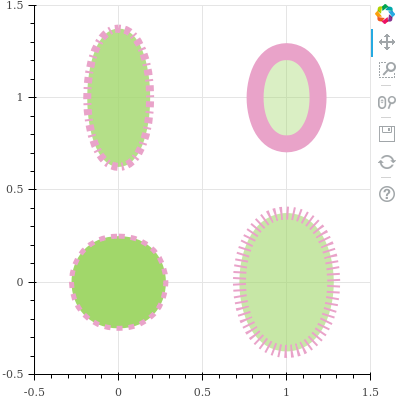
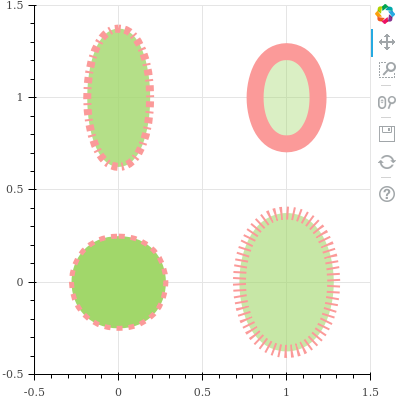
adding glyphs

diff --git a/visualizations/bokeh/figures/oval.html b/visualizations/bokeh/figures/oval.html
@@ -26,15 +26,15 @@
     <body>
         
         <div class="bk-root">
-            <div class="bk-plotdiv" id="62989a92-e396-4f5a-965a-313b84857a18"></div>
+            <div class="bk-plotdiv" id="96c07aaa-b8b9-4380-a575-c02981c646c0"></div>
         </div>
         
         <script type="text/javascript">
             (function() {
           var fn = function() {
             Bokeh.safely(function() {
-              var docs_json = {"1d04ee31-8a85-4418-b7fb-336498532421":{"roots":{"references":[{"attributes":{"fill_alpha":{"value":0.8},"fill_color":{"value":"#a1d76a"},"height":{"units":"data","value":0.75},"line_color":{"value":"#e9a3c9"},"line_dash":[2,4,6,4],"line_width":{"value":8},"width":{"units":"data","value":0.5},"x":{"value":0},"y":{"value":1}},"id":"dadd5312-4910-4e13-9038-2ab658ad33fe","type":"Oval"},{"attributes":{},"id":"24e776b3-d8e7-473a-996a-7b53e8a775b0","type":"LinearScale"},{"attributes":{"fill_alpha":{"value":0.1},"fill_color":{"value":"#1f77b4"},"height":{"units":"data","value":0.75},"line_alpha":{"value":0.1},"line_color":{"value":"#1f77b4"},"line_dash":[2,4],"line_width":{"value":13},"width":{"units":"data","value":0.75},"x":{"value":1},"y":{"value":0}},"id":"e058e57b-f2a9-4df8-af5f-fa073d35b3c4","type":"Oval"},{"attributes":{"below":[{"id":"d87bc479-787b-4223-ba49-768d3d163545","type":"LinearAxis"}],"left":[{"id":"0a48bb47-137e-42e9-ad80-e3044a338332","type":"LinearAxis"}],"plot_height":400,"plot_width":400,"renderers":[{"id":"d87bc479-787b-4223-ba49-768d3d163545","type":"LinearAxis"},{"id":"f17390de-6759-4f5c-bf11-67b1ed06ecbf","type":"Grid"},{"id":"0a48bb47-137e-42e9-ad80-e3044a338332","type":"LinearAxis"},{"id":"6615a2eb-dd79-48c9-ab9f-cc2f9919d4b4","type":"Grid"},{"id":"9e87a8dd-1f8e-4e99-8a12-9ebe5a4704f1","type":"BoxAnnotation"},{"id":"56ebb76b-2836-4bfb-9501-9e6c39e6650c","type":"GlyphRenderer"},{"id":"d07322be-cfb5-42f8-977a-852c487fa246","type":"GlyphRenderer"},{"id":"f21fa992-15e8-4483-bbc6-1a89d8596015","type":"GlyphRenderer"},{"id":"e3928231-d08b-4710-9102-ea923d526dd1","type":"GlyphRenderer"}],"title":{"id":"a908894b-35f0-4e01-a70e-61f84bc4c3d5","type":"Title"},"toolbar":{"id":"2168eee2-3061-4799-adf0-fc2b30e4313d","type":"Toolbar"},"x_range":{"id":"86571c73-4f47-4b6d-85f3-47724ad37367","type":"Range1d"},"x_scale":{"id":"1f7d412c-b5dc-42f1-9451-627bfcfc04df","type":"LinearScale"},"y_range":{"id":"fdf60e62-45b7-475e-aa7b-d891fa0e463c","type":"Range1d"},"y_scale":{"id":"24e776b3-d8e7-473a-996a-7b53e8a775b0","type":"LinearScale"}},"id":"e5f42080-389a-4f6d-b243-21b1b19cb5c6","subtype":"Figure","type":"Plot"},{"attributes":{},"id":"48639cf8-b2d5-410c-bd11-69905173ad43","type":"SaveTool"},{"attributes":{},"id":"07195ee6-4a4f-416e-baf5-a638aae50ede","type":"BasicTickFormatter"},{"attributes":{},"id":"9c3410e4-72c3-4262-a37f-a7e6cd170613","type":"BasicTicker"},{"attributes":{"data_source":{"id":"46220542-4b14-44ad-969f-a1e7d00faab8","type":"ColumnDataSource"},"glyph":{"id":"cc58413f-e6e5-47cc-9de7-b7a2780539a6","type":"Oval"},"hover_glyph":null,"muted_glyph":null,"nonselection_glyph":{"id":"7548c109-bf78-495d-b475-a7baa28d4283","type":"Oval"},"selection_glyph":null,"view":{"id":"ef9cb6ea-433f-4111-bc66-d7a1a931d2cd","type":"CDSView"}},"id":"e3928231-d08b-4710-9102-ea923d526dd1","type":"GlyphRenderer"},{"attributes":{"fill_color":{"value":"#a1d76a"},"height":{"units":"data","value":0.5},"line_color":{"value":"#e9a3c9"},"line_dash":[6],"line_width":{"value":5},"width":{"units":"data","value":0.75},"x":{"value":0},"y":{"value":0}},"id":"f0922449-eca8-477b-8413-4f6d4801c103","type":"Oval"},{"attributes":{},"id":"445d9921-2340-49da-88a9-77863f76f850","type":"BasicTicker"},{"attributes":{},"id":"1f7d412c-b5dc-42f1-9451-627bfcfc04df","type":"LinearScale"},{"attributes":{"bottom_units":"screen","fill_alpha":{"value":0.5},"fill_color":{"value":"lightgrey"},"left_units":"screen","level":"overlay","line_alpha":{"value":1.0},"line_color":{"value":"black"},"line_dash":[4,4],"line_width":{"value":2},"plot":null,"render_mode":"css","right_units":"screen","top_units":"screen"},"id":"9e87a8dd-1f8e-4e99-8a12-9ebe5a4704f1","type":"BoxAnnotation"},{"attributes":{"overlay":{"id":"9e87a8dd-1f8e-4e99-8a12-9ebe5a4704f1","type":"BoxAnnotation"}},"id":"13b1827a-9299-45e8-afac-8b1573bff317","type":"BoxZoomTool"},{"attributes":{"fill_alpha":{"value":0.4},"fill_color":{"value":"#a1d76a"},"height":{"units":"data","value":0.5},"line_color":{"value":"#e9a3c9"},"line_width":{"value":17},"width":{"units":"data","value":0.5},"x":{"value":1},"y":{"value":1}},"id":"cc58413f-e6e5-47cc-9de7-b7a2780539a6","type":"Oval"},{"attributes":{"formatter":{"id":"07195ee6-4a4f-416e-baf5-a638aae50ede","type":"BasicTickFormatter"},"plot":{"id":"e5f42080-389a-4f6d-b243-21b1b19cb5c6","subtype":"Figure","type":"Plot"},"ticker":{"id":"445d9921-2340-49da-88a9-77863f76f850","type":"BasicTicker"}},"id":"d87bc479-787b-4223-ba49-768d3d163545","type":"LinearAxis"},{"attributes":{"data_source":{"id":"b005d9e0-3abe-473c-9297-d92c07b67ae0","type":"ColumnDataSource"},"glyph":{"id":"e2a611fe-79df-43ef-8ba1-57c807c4385b","type":"Oval"},"hover_glyph":null,"muted_glyph":null,"nonselection_glyph":{"id":"e058e57b-f2a9-4df8-af5f-fa073d35b3c4","type":"Oval"},"selection_glyph":null,"view":{"id":"6626e1a3-f8cb-4ba7-927d-9e73b77b4fb3","type":"CDSView"}},"id":"f21fa992-15e8-4483-bbc6-1a89d8596015","type":"GlyphRenderer"},{"attributes":{},"id":"616a46b0-e7be-4404-9f9b-fcfdf334cdbb","type":"ResetTool"},{"attributes":{"callback":null,"data":{}},"id":"1a96e4d3-264b-47fc-ba2f-b7c0ea44291a","type":"ColumnDataSource"},{"attributes":{"plot":{"id":"e5f42080-389a-4f6d-b243-21b1b19cb5c6","subtype":"Figure","type":"Plot"},"ticker":{"id":"445d9921-2340-49da-88a9-77863f76f850","type":"BasicTicker"}},"id":"f17390de-6759-4f5c-bf11-67b1ed06ecbf","type":"Grid"},{"attributes":{"source":{"id":"b005d9e0-3abe-473c-9297-d92c07b67ae0","type":"ColumnDataSource"}},"id":"6626e1a3-f8cb-4ba7-927d-9e73b77b4fb3","type":"CDSView"},{"attributes":{"active_drag":"auto","active_inspect":"auto","active_scroll":"auto","active_tap":"auto","tools":[{"id":"891ee9f4-981b-4661-9c3a-398ac33fec5a","type":"PanTool"},{"id":"1a161d79-d8cf-4324-ad53-dbfd9a3a7566","type":"WheelZoomTool"},{"id":"13b1827a-9299-45e8-afac-8b1573bff317","type":"BoxZoomTool"},{"id":"48639cf8-b2d5-410c-bd11-69905173ad43","type":"SaveTool"},{"id":"616a46b0-e7be-4404-9f9b-fcfdf334cdbb","type":"ResetTool"},{"id":"bc60f331-735c-4943-904c-6a2f869e45b9","type":"HelpTool"}]},"id":"2168eee2-3061-4799-adf0-fc2b30e4313d","type":"Toolbar"},{"attributes":{"fill_alpha":{"value":0.1},"fill_color":{"value":"#1f77b4"},"height":{"units":"data","value":0.5},"line_alpha":{"value":0.1},"line_color":{"value":"#1f77b4"},"line_width":{"value":17},"width":{"units":"data","value":0.5},"x":{"value":1},"y":{"value":1}},"id":"7548c109-bf78-495d-b475-a7baa28d4283","type":"Oval"},{"attributes":{"source":{"id":"46220542-4b14-44ad-969f-a1e7d00faab8","type":"ColumnDataSource"}},"id":"ef9cb6ea-433f-4111-bc66-d7a1a931d2cd","type":"CDSView"},{"attributes":{"source":{"id":"9f571770-ddd6-4b45-a89c-9edef24fb594","type":"ColumnDataSource"}},"id":"59e11450-78c9-4c80-becd-4faa33aa75be","type":"CDSView"},{"attributes":{},"id":"891ee9f4-981b-4661-9c3a-398ac33fec5a","type":"PanTool"},{"attributes":{"formatter":{"id":"9a7c8dd0-ddd2-4768-ae61-2976dde85bf3","type":"BasicTickFormatter"},"plot":{"id":"e5f42080-389a-4f6d-b243-21b1b19cb5c6","subtype":"Figure","type":"Plot"},"ticker":{"id":"9c3410e4-72c3-4262-a37f-a7e6cd170613","type":"BasicTicker"}},"id":"0a48bb47-137e-42e9-ad80-e3044a338332","type":"LinearAxis"},{"attributes":{"bounds":[-1,2],"callback":null,"end":1.5,"start":-0.5},"id":"fdf60e62-45b7-475e-aa7b-d891fa0e463c","type":"Range1d"},{"attributes":{"callback":null,"data":{}},"id":"b005d9e0-3abe-473c-9297-d92c07b67ae0","type":"ColumnDataSource"},{"attributes":{"fill_alpha":{"value":0.6},"fill_color":{"value":"#a1d76a"},"height":{"units":"data","value":0.75},"line_color":{"value":"#e9a3c9"},"line_dash":[2,4],"line_width":{"value":13},"width":{"units":"data","value":0.75},"x":{"value":1},"y":{"value":0}},"id":"e2a611fe-79df-43ef-8ba1-57c807c4385b","type":"Oval"},{"attributes":{"callback":null,"data":{}},"id":"46220542-4b14-44ad-969f-a1e7d00faab8","type":"ColumnDataSource"},{"attributes":{},"id":"1a161d79-d8cf-4324-ad53-dbfd9a3a7566","type":"WheelZoomTool"},{"attributes":{"callback":null,"data":{}},"id":"9f571770-ddd6-4b45-a89c-9edef24fb594","type":"ColumnDataSource"},{"attributes":{"source":{"id":"1a96e4d3-264b-47fc-ba2f-b7c0ea44291a","type":"ColumnDataSource"}},"id":"ee9b2e5e-9807-4bec-96ae-4550e5af5dc9","type":"CDSView"},{"attributes":{"data_source":{"id":"1a96e4d3-264b-47fc-ba2f-b7c0ea44291a","type":"ColumnDataSource"},"glyph":{"id":"dadd5312-4910-4e13-9038-2ab658ad33fe","type":"Oval"},"hover_glyph":null,"muted_glyph":null,"nonselection_glyph":{"id":"34d62bf9-f475-40bc-9ad6-317a2768102a","type":"Oval"},"selection_glyph":null,"view":{"id":"ee9b2e5e-9807-4bec-96ae-4550e5af5dc9","type":"CDSView"}},"id":"d07322be-cfb5-42f8-977a-852c487fa246","type":"GlyphRenderer"},{"attributes":{"plot":null,"text":""},"id":"a908894b-35f0-4e01-a70e-61f84bc4c3d5","type":"Title"},{"attributes":{},"id":"bc60f331-735c-4943-904c-6a2f869e45b9","type":"HelpTool"},{"attributes":{},"id":"9a7c8dd0-ddd2-4768-ae61-2976dde85bf3","type":"BasicTickFormatter"},{"attributes":{"bounds":[-1,2],"callback":null,"end":1.5,"start":-0.5},"id":"86571c73-4f47-4b6d-85f3-47724ad37367","type":"Range1d"},{"attributes":{"dimension":1,"plot":{"id":"e5f42080-389a-4f6d-b243-21b1b19cb5c6","subtype":"Figure","type":"Plot"},"ticker":{"id":"9c3410e4-72c3-4262-a37f-a7e6cd170613","type":"BasicTicker"}},"id":"6615a2eb-dd79-48c9-ab9f-cc2f9919d4b4","type":"Grid"},{"attributes":{"fill_alpha":{"value":0.1},"fill_color":{"value":"#1f77b4"},"height":{"units":"data","value":0.5},"line_alpha":{"value":0.1},"line_color":{"value":"#1f77b4"},"line_dash":[6],"line_width":{"value":5},"width":{"units":"data","value":0.75},"x":{"value":0},"y":{"value":0}},"id":"a7d42404-54c8-486d-9443-663720b7b05a","type":"Oval"},{"attributes":{"fill_alpha":{"value":0.1},"fill_color":{"value":"#1f77b4"},"height":{"units":"data","value":0.75},"line_alpha":{"value":0.1},"line_color":{"value":"#1f77b4"},"line_dash":[2,4,6,4],"line_width":{"value":8},"width":{"units":"data","value":0.5},"x":{"value":0},"y":{"value":1}},"id":"34d62bf9-f475-40bc-9ad6-317a2768102a","type":"Oval"},{"attributes":{"data_source":{"id":"9f571770-ddd6-4b45-a89c-9edef24fb594","type":"ColumnDataSource"},"glyph":{"id":"f0922449-eca8-477b-8413-4f6d4801c103","type":"Oval"},"hover_glyph":null,"muted_glyph":null,"nonselection_glyph":{"id":"a7d42404-54c8-486d-9443-663720b7b05a","type":"Oval"},"selection_glyph":null,"view":{"id":"59e11450-78c9-4c80-becd-4faa33aa75be","type":"CDSView"}},"id":"56ebb76b-2836-4bfb-9501-9e6c39e6650c","type":"GlyphRenderer"}],"root_ids":["e5f42080-389a-4f6d-b243-21b1b19cb5c6"]},"title":"Bokeh Application","version":"0.12.7"}};
-              var render_items = [{"docid":"1d04ee31-8a85-4418-b7fb-336498532421","elementid":"62989a92-e396-4f5a-965a-313b84857a18","modelid":"e5f42080-389a-4f6d-b243-21b1b19cb5c6"}];
+              var docs_json = {"497fbc84-c441-4f58-877c-dbebb9c97014":{"roots":{"references":[{"attributes":{"plot":null,"text":""},"id":"e1f8550b-b0ac-49b1-b1bf-918bed273779","type":"Title"},{"attributes":{"callback":null,"data":{}},"id":"14820b54-dfcb-4a3a-a3a5-3e90a92fce48","type":"ColumnDataSource"},{"attributes":{"data_source":{"id":"14820b54-dfcb-4a3a-a3a5-3e90a92fce48","type":"ColumnDataSource"},"glyph":{"id":"2423b755-6562-4eae-a8e9-5d74a11ae69b","type":"Oval"},"hover_glyph":null,"muted_glyph":null,"nonselection_glyph":{"id":"a33b9b88-42ee-468e-a2ff-fb4ea160edd2","type":"Oval"},"selection_glyph":null,"view":{"id":"e5e4fa38-0c22-454a-b377-01b2dbad29e3","type":"CDSView"}},"id":"f3b7851c-f692-4839-9321-167e9ac25ff0","type":"GlyphRenderer"},{"attributes":{},"id":"f46f9a51-7efb-4bdd-888a-ce6d7777c90f","type":"SaveTool"},{"attributes":{"fill_alpha":{"value":0.1},"fill_color":{"value":"#1f77b4"},"height":{"units":"data","value":0.5},"line_alpha":{"value":0.1},"line_color":{"value":"#1f77b4"},"line_dash":[6],"line_width":{"value":5},"width":{"units":"data","value":0.75},"x":{"value":0},"y":{"value":0}},"id":"1b77fc99-6330-4b5b-bc7a-55aeafe3bab6","type":"Oval"},{"attributes":{},"id":"098f3499-7151-4baa-b136-5295f8e648c3","type":"WheelZoomTool"},{"attributes":{},"id":"95820e77-8b28-4f3b-a83d-8243a86f2bf8","type":"LinearScale"},{"attributes":{"formatter":{"id":"f04e67e0-0222-4051-8efc-f863408c07ef","type":"BasicTickFormatter"},"plot":{"id":"e7d7ce14-5ff1-407b-8506-ca1af218850c","subtype":"Figure","type":"Plot"},"ticker":{"id":"7506c438-e946-4b9e-be0d-446ba9b0f7db","type":"BasicTicker"}},"id":"558c38a0-0a90-4b03-9b09-d15ff075f80d","type":"LinearAxis"},{"attributes":{"fill_alpha":{"value":0.1},"fill_color":{"value":"#1f77b4"},"height":{"units":"data","value":0.75},"line_alpha":{"value":0.1},"line_color":{"value":"#1f77b4"},"line_dash":[2,4],"line_width":{"value":13},"width":{"units":"data","value":0.75},"x":{"value":1},"y":{"value":0}},"id":"cef53b2b-a51b-4230-9ff8-ff26b98e3431","type":"Oval"},{"attributes":{},"id":"036e917f-a47c-4d80-9cf0-53b5b3aa7da2","type":"BasicTicker"},{"attributes":{"fill_color":{"value":"#a1d76a"},"height":{"units":"data","value":0.5},"line_color":{"value":"#fb9a99"},"line_dash":[6],"line_width":{"value":5},"width":{"units":"data","value":0.75},"x":{"value":0},"y":{"value":0}},"id":"32b63c0b-bc99-44dd-8dbb-1d98368b8ecc","type":"Oval"},{"attributes":{"bounds":[-1,2],"callback":null,"end":1.5,"start":-0.5},"id":"148108b2-822c-4375-97ef-90a1319d4a1e","type":"Range1d"},{"attributes":{"overlay":{"id":"2cd334f5-8e22-46de-9a11-d5993420d2f4","type":"BoxAnnotation"}},"id":"cb4a7260-9eaa-4c8a-b486-fc7d11a0b399","type":"BoxZoomTool"},{"attributes":{},"id":"3a600d90-da48-4fe5-bf8a-3d37b04c11a0","type":"ResetTool"},{"attributes":{},"id":"58811019-2920-4d43-85bc-b1c99d43aded","type":"BasicTickFormatter"},{"attributes":{"dimension":1,"plot":{"id":"e7d7ce14-5ff1-407b-8506-ca1af218850c","subtype":"Figure","type":"Plot"},"ticker":{"id":"036e917f-a47c-4d80-9cf0-53b5b3aa7da2","type":"BasicTicker"}},"id":"8edf7074-5b54-48f7-86b2-6d0fbc5a9d7c","type":"Grid"},{"attributes":{"source":{"id":"db4cf520-eada-49ea-80b6-ba6ba20c8d6a","type":"ColumnDataSource"}},"id":"34839f0f-0116-4be0-bf63-ce341a2a7bbd","type":"CDSView"},{"attributes":{"callback":null,"data":{}},"id":"a5b07469-9489-4260-aa29-badcab3199ba","type":"ColumnDataSource"},{"attributes":{"fill_alpha":{"value":0.1},"fill_color":{"value":"#1f77b4"},"height":{"units":"data","value":0.5},"line_alpha":{"value":0.1},"line_color":{"value":"#1f77b4"},"line_width":{"value":17},"width":{"units":"data","value":0.5},"x":{"value":1},"y":{"value":1}},"id":"cbfb4a70-7143-4306-adc2-370616d9a191","type":"Oval"},{"attributes":{"formatter":{"id":"58811019-2920-4d43-85bc-b1c99d43aded","type":"BasicTickFormatter"},"plot":{"id":"e7d7ce14-5ff1-407b-8506-ca1af218850c","subtype":"Figure","type":"Plot"},"ticker":{"id":"036e917f-a47c-4d80-9cf0-53b5b3aa7da2","type":"BasicTicker"}},"id":"16697919-6335-4740-aa43-33bb588dc53c","type":"LinearAxis"},{"attributes":{"data_source":{"id":"a5b07469-9489-4260-aa29-badcab3199ba","type":"ColumnDataSource"},"glyph":{"id":"32b63c0b-bc99-44dd-8dbb-1d98368b8ecc","type":"Oval"},"hover_glyph":null,"muted_glyph":null,"nonselection_glyph":{"id":"1b77fc99-6330-4b5b-bc7a-55aeafe3bab6","type":"Oval"},"selection_glyph":null,"view":{"id":"e9b897bc-b68c-4c15-81b4-5531581d1393","type":"CDSView"}},"id":"e054ce72-94ca-4b42-a473-d92a120981df","type":"GlyphRenderer"},{"attributes":{"active_drag":"auto","active_inspect":"auto","active_scroll":"auto","active_tap":"auto","tools":[{"id":"10f422e2-4fe7-4a99-b66a-3e87c9e2d962","type":"PanTool"},{"id":"098f3499-7151-4baa-b136-5295f8e648c3","type":"WheelZoomTool"},{"id":"cb4a7260-9eaa-4c8a-b486-fc7d11a0b399","type":"BoxZoomTool"},{"id":"f46f9a51-7efb-4bdd-888a-ce6d7777c90f","type":"SaveTool"},{"id":"3a600d90-da48-4fe5-bf8a-3d37b04c11a0","type":"ResetTool"},{"id":"be78149c-d435-4795-9a89-e27ddd85775a","type":"HelpTool"}]},"id":"1ce8fa8f-2fbf-44c5-9c9d-e66c8168c0b1","type":"Toolbar"},{"attributes":{"source":{"id":"12c6f936-f292-4774-9d9a-66d2a660342c","type":"ColumnDataSource"}},"id":"c0651f07-db43-4737-a374-b22b774f7e69","type":"CDSView"},{"attributes":{},"id":"fc3f6fc0-eb51-462d-97d9-4aec583d3beb","type":"LinearScale"},{"attributes":{"callback":null,"data":{}},"id":"12c6f936-f292-4774-9d9a-66d2a660342c","type":"ColumnDataSource"},{"attributes":{"data_source":{"id":"db4cf520-eada-49ea-80b6-ba6ba20c8d6a","type":"ColumnDataSource"},"glyph":{"id":"55e1ed11-b9d4-4443-906a-5d1f11fe5ffb","type":"Oval"},"hover_glyph":null,"muted_glyph":null,"nonselection_glyph":{"id":"cef53b2b-a51b-4230-9ff8-ff26b98e3431","type":"Oval"},"selection_glyph":null,"view":{"id":"34839f0f-0116-4be0-bf63-ce341a2a7bbd","type":"CDSView"}},"id":"f219f441-1556-4ea6-be0a-de73a3fcd741","type":"GlyphRenderer"},{"attributes":{},"id":"be78149c-d435-4795-9a89-e27ddd85775a","type":"HelpTool"},{"attributes":{"below":[{"id":"558c38a0-0a90-4b03-9b09-d15ff075f80d","type":"LinearAxis"}],"left":[{"id":"16697919-6335-4740-aa43-33bb588dc53c","type":"LinearAxis"}],"plot_height":400,"plot_width":400,"renderers":[{"id":"558c38a0-0a90-4b03-9b09-d15ff075f80d","type":"LinearAxis"},{"id":"a6db1690-a371-4fc0-8f90-9df171e43264","type":"Grid"},{"id":"16697919-6335-4740-aa43-33bb588dc53c","type":"LinearAxis"},{"id":"8edf7074-5b54-48f7-86b2-6d0fbc5a9d7c","type":"Grid"},{"id":"2cd334f5-8e22-46de-9a11-d5993420d2f4","type":"BoxAnnotation"},{"id":"e054ce72-94ca-4b42-a473-d92a120981df","type":"GlyphRenderer"},{"id":"f3b7851c-f692-4839-9321-167e9ac25ff0","type":"GlyphRenderer"},{"id":"f219f441-1556-4ea6-be0a-de73a3fcd741","type":"GlyphRenderer"},{"id":"610ef6a4-31c2-4a1c-9edb-e90f17dca69b","type":"GlyphRenderer"}],"title":{"id":"e1f8550b-b0ac-49b1-b1bf-918bed273779","type":"Title"},"toolbar":{"id":"1ce8fa8f-2fbf-44c5-9c9d-e66c8168c0b1","type":"Toolbar"},"x_range":{"id":"c4f7740c-2e6d-458e-8b7c-6452b8b6eed9","type":"Range1d"},"x_scale":{"id":"fc3f6fc0-eb51-462d-97d9-4aec583d3beb","type":"LinearScale"},"y_range":{"id":"148108b2-822c-4375-97ef-90a1319d4a1e","type":"Range1d"},"y_scale":{"id":"95820e77-8b28-4f3b-a83d-8243a86f2bf8","type":"LinearScale"}},"id":"e7d7ce14-5ff1-407b-8506-ca1af218850c","subtype":"Figure","type":"Plot"},{"attributes":{"source":{"id":"14820b54-dfcb-4a3a-a3a5-3e90a92fce48","type":"ColumnDataSource"}},"id":"e5e4fa38-0c22-454a-b377-01b2dbad29e3","type":"CDSView"},{"attributes":{"bottom_units":"screen","fill_alpha":{"value":0.5},"fill_color":{"value":"lightgrey"},"left_units":"screen","level":"overlay","line_alpha":{"value":1.0},"line_color":{"value":"black"},"line_dash":[4,4],"line_width":{"value":2},"plot":null,"render_mode":"css","right_units":"screen","top_units":"screen"},"id":"2cd334f5-8e22-46de-9a11-d5993420d2f4","type":"BoxAnnotation"},{"attributes":{"data_source":{"id":"12c6f936-f292-4774-9d9a-66d2a660342c","type":"ColumnDataSource"},"glyph":{"id":"61fbb3f6-a39c-4b18-a710-ca8a1f80711a","type":"Oval"},"hover_glyph":null,"muted_glyph":null,"nonselection_glyph":{"id":"cbfb4a70-7143-4306-adc2-370616d9a191","type":"Oval"},"selection_glyph":null,"view":{"id":"c0651f07-db43-4737-a374-b22b774f7e69","type":"CDSView"}},"id":"610ef6a4-31c2-4a1c-9edb-e90f17dca69b","type":"GlyphRenderer"},{"attributes":{"fill_alpha":{"value":0.8},"fill_color":{"value":"#a1d76a"},"height":{"units":"data","value":0.75},"line_color":{"value":"#fb9a99"},"line_dash":[2,4,6,4],"line_width":{"value":8},"width":{"units":"data","value":0.5},"x":{"value":0},"y":{"value":1}},"id":"2423b755-6562-4eae-a8e9-5d74a11ae69b","type":"Oval"},{"attributes":{},"id":"10f422e2-4fe7-4a99-b66a-3e87c9e2d962","type":"PanTool"},{"attributes":{"fill_alpha":{"value":0.4},"fill_color":{"value":"#a1d76a"},"height":{"units":"data","value":0.5},"line_color":{"value":"#fb9a99"},"line_width":{"value":17},"width":{"units":"data","value":0.5},"x":{"value":1},"y":{"value":1}},"id":"61fbb3f6-a39c-4b18-a710-ca8a1f80711a","type":"Oval"},{"attributes":{"fill_alpha":{"value":0.6},"fill_color":{"value":"#a1d76a"},"height":{"units":"data","value":0.75},"line_color":{"value":"#fb9a99"},"line_dash":[2,4],"line_width":{"value":13},"width":{"units":"data","value":0.75},"x":{"value":1},"y":{"value":0}},"id":"55e1ed11-b9d4-4443-906a-5d1f11fe5ffb","type":"Oval"},{"attributes":{"source":{"id":"a5b07469-9489-4260-aa29-badcab3199ba","type":"ColumnDataSource"}},"id":"e9b897bc-b68c-4c15-81b4-5531581d1393","type":"CDSView"},{"attributes":{"callback":null,"data":{}},"id":"db4cf520-eada-49ea-80b6-ba6ba20c8d6a","type":"ColumnDataSource"},{"attributes":{"plot":{"id":"e7d7ce14-5ff1-407b-8506-ca1af218850c","subtype":"Figure","type":"Plot"},"ticker":{"id":"7506c438-e946-4b9e-be0d-446ba9b0f7db","type":"BasicTicker"}},"id":"a6db1690-a371-4fc0-8f90-9df171e43264","type":"Grid"},{"attributes":{},"id":"7506c438-e946-4b9e-be0d-446ba9b0f7db","type":"BasicTicker"},{"attributes":{"bounds":[-1,2],"callback":null,"end":1.5,"start":-0.5},"id":"c4f7740c-2e6d-458e-8b7c-6452b8b6eed9","type":"Range1d"},{"attributes":{},"id":"f04e67e0-0222-4051-8efc-f863408c07ef","type":"BasicTickFormatter"},{"attributes":{"fill_alpha":{"value":0.1},"fill_color":{"value":"#1f77b4"},"height":{"units":"data","value":0.75},"line_alpha":{"value":0.1},"line_color":{"value":"#1f77b4"},"line_dash":[2,4,6,4],"line_width":{"value":8},"width":{"units":"data","value":0.5},"x":{"value":0},"y":{"value":1}},"id":"a33b9b88-42ee-468e-a2ff-fb4ea160edd2","type":"Oval"}],"root_ids":["e7d7ce14-5ff1-407b-8506-ca1af218850c"]},"title":"Bokeh Application","version":"0.12.7"}};
+              var render_items = [{"docid":"497fbc84-c441-4f58-877c-dbebb9c97014","elementid":"96c07aaa-b8b9-4380-a575-c02981c646c0","modelid":"e7d7ce14-5ff1-407b-8506-ca1af218850c"}];
               
               Bokeh.embed.embed_items(docs_json, render_items);
             });

diff --git a/visualizations/bokeh/figures/patch.html b/visualizations/bokeh/figures/patch.html
@@ -1,0 +1,48 @@
+
+<!DOCTYPE html>
+<html lang="en">
+    <head>
+        <meta charset="utf-8">
+        <title>Bokeh Plot</title>
+        
+<link rel="stylesheet" href="https://cdn.pydata.org/bokeh/release/bokeh-0.12.7.min.css" type="text/css" />
+        
+<script type="text/javascript" src="https://cdn.pydata.org/bokeh/release/bokeh-0.12.7.min.js"></script>
+<script type="text/javascript">
+    Bokeh.set_log_level("info");
+</script>
+        <style>
+          html {
+            width: 100%;
+            height: 100%;
+          }
+          body {
+            width: 90%;
+            height: 100%;
+            margin: auto;
+          }
+        </style>
+    </head>
+    <body>
+        
+        <div class="bk-root">
+            <div class="bk-plotdiv" id="acb2f535-c34e-4d77-b010-fb8c0f81516b"></div>
+        </div>
+        
+        <script type="text/javascript">
+            (function() {
+          var fn = function() {
+            Bokeh.safely(function() {
+              var docs_json = {"2e50db99-064f-498f-8656-4779b8f4eb30":{"roots":{"references":[{"attributes":{},"id":"783649a9-7b13-43c9-bb1c-559edea80e43","type":"BasicTickFormatter"},{"attributes":{},"id":"b2e44021-b923-4e7d-a6bb-28e6ff9cbe1a","type":"SaveTool"},{"attributes":{"data_source":{"id":"6ec3e90a-f447-46b9-a627-aa3384a4c715","type":"ColumnDataSource"},"glyph":{"id":"c9fff9de-6a8f-4f24-adc7-6ce4940cdd6e","type":"Patch"},"hover_glyph":null,"muted_glyph":null,"nonselection_glyph":{"id":"0e69bafe-fbf4-4b23-9811-c5df96c97fb1","type":"Patch"},"selection_glyph":null,"view":{"id":"1a965ad6-6dcb-4955-8770-4909d5cb0684","type":"CDSView"}},"id":"0b53b412-20fd-46e2-a4f5-11a2172a43cd","type":"GlyphRenderer"},{"attributes":{"source":{"id":"7b03a29e-695d-48c9-bf1a-b7f462319091","type":"ColumnDataSource"}},"id":"cbc02ddc-7483-4523-85de-5414f2ba7eb3","type":"CDSView"},{"attributes":{},"id":"c3b8a39f-5ce0-4db8-9dc5-6ad35fe9846f","type":"LinearScale"},{"attributes":{"formatter":{"id":"783649a9-7b13-43c9-bb1c-559edea80e43","type":"BasicTickFormatter"},"plot":{"id":"d9ff9a8d-fe4f-4138-ae7b-86426d08bb76","subtype":"Figure","type":"Plot"},"ticker":{"id":"79968414-ca8d-4686-98d8-5f7dd6ecda9d","type":"BasicTicker"}},"id":"dfc4ce8b-ee09-48c5-b7f1-9906ab9da1b5","type":"LinearAxis"},{"attributes":{"fill_alpha":{"value":0.1},"fill_color":{"value":"#1f77b4"},"line_alpha":{"value":0.1},"line_color":{"value":"#1f77b4"},"line_dash":[6],"line_width":{"value":5},"x":{"field":"x"},"y":{"field":"y"}},"id":"0e69bafe-fbf4-4b23-9811-c5df96c97fb1","type":"Patch"},{"attributes":{"fill_color":{"value":"#a6cee3"},"line_color":{"value":"#1f78b4"},"line_dash":[6],"line_width":{"value":5},"x":{"field":"x"},"y":{"field":"y"}},"id":"c9fff9de-6a8f-4f24-adc7-6ce4940cdd6e","type":"Patch"},{"attributes":{},"id":"0602b227-1480-42d1-a66e-86a65975c71b","type":"BasicTickFormatter"},{"attributes":{"source":{"id":"f5b23d7e-8fbb-467f-b301-7fc6ea789af7","type":"ColumnDataSource"}},"id":"a5012b1f-1249-4eee-a7e6-27b046202a6e","type":"CDSView"},{"attributes":{"plot":{"id":"d9ff9a8d-fe4f-4138-ae7b-86426d08bb76","subtype":"Figure","type":"Plot"},"ticker":{"id":"79968414-ca8d-4686-98d8-5f7dd6ecda9d","type":"BasicTicker"}},"id":"ab4c9503-8066-4458-a31f-6d842fe3b996","type":"Grid"},{"attributes":{"plot":null,"text":""},"id":"37ce132a-5087-4680-b360-d2ae9ed99b68","type":"Title"},{"attributes":{"overlay":{"id":"3a81ff9d-6a40-4730-b91e-39a7ecce71fb","type":"BoxAnnotation"}},"id":"f9edfc0b-6c89-4da9-922f-ee248467651e","type":"BoxZoomTool"},{"attributes":{},"id":"79968414-ca8d-4686-98d8-5f7dd6ecda9d","type":"BasicTicker"},{"attributes":{"data_source":{"id":"f5b23d7e-8fbb-467f-b301-7fc6ea789af7","type":"ColumnDataSource"},"glyph":{"id":"6c5410a0-3aa5-4270-aea4-0842cba5c1f4","type":"Patch"},"hover_glyph":null,"muted_glyph":null,"nonselection_glyph":{"id":"51c5f0de-45fa-4b4d-a3fa-b704635a34c1","type":"Patch"},"selection_glyph":null,"view":{"id":"a5012b1f-1249-4eee-a7e6-27b046202a6e","type":"CDSView"}},"id":"a87ea631-24e8-4779-b33a-820447a7360a","type":"GlyphRenderer"},{"attributes":{},"id":"2cd8e201-0aa5-4667-942d-695572f34c43","type":"LinearScale"},{"attributes":{"data_source":{"id":"7b03a29e-695d-48c9-bf1a-b7f462319091","type":"ColumnDataSource"},"glyph":{"id":"f2d82cc8-910a-434e-bde3-31d20c42064f","type":"Patch"},"hover_glyph":null,"muted_glyph":null,"nonselection_glyph":{"id":"a78a3837-5f10-44b7-9c22-43bc05b9e00d","type":"Patch"},"selection_glyph":null,"view":{"id":"cbc02ddc-7483-4523-85de-5414f2ba7eb3","type":"CDSView"}},"id":"0fce864d-81d0-4056-8464-481a7424edff","type":"GlyphRenderer"},{"attributes":{"fill_color":{"value":"#e31a1c"},"line_color":{"value":"#e31a1c"},"line_width":{"value":5},"x":{"field":"x"},"y":{"field":"y"}},"id":"f2d82cc8-910a-434e-bde3-31d20c42064f","type":"Patch"},{"attributes":{},"id":"49033719-64ef-4713-b508-37aa7b1a441a","type":"BasicTicker"},{"attributes":{"callback":null,"column_names":["y","x"],"data":{"x":[0,0.5,0,0.5],"y":[0,0.5,0.5,0]}},"id":"7b03a29e-695d-48c9-bf1a-b7f462319091","type":"ColumnDataSource"},{"attributes":{"fill_alpha":{"value":0.1},"fill_color":{"value":"#1f77b4"},"line_alpha":{"value":0.1},"line_color":{"value":"#1f77b4"},"line_dash":[2,4],"line_width":{"value":5},"x":{"field":"x"},"y":{"field":"y"}},"id":"7af712b8-29a1-470c-a76b-4fdb0f42e5f2","type":"Patch"},{"attributes":{"dimension":1,"plot":{"id":"d9ff9a8d-fe4f-4138-ae7b-86426d08bb76","subtype":"Figure","type":"Plot"},"ticker":{"id":"49033719-64ef-4713-b508-37aa7b1a441a","type":"BasicTicker"}},"id":"6277dd0d-768c-43db-8699-52ffb7747bc9","type":"Grid"},{"attributes":{"fill_color":{"value":"#cab2d6"},"line_color":{"value":"#6a3d9a"},"line_dash":[2,4],"line_width":{"value":5},"x":{"field":"x"},"y":{"field":"y"}},"id":"f6c29d93-8ab6-43f5-8385-7635cf4ab65c","type":"Patch"},{"attributes":{"callback":null,"column_names":["y","x"],"data":{"x":[0.75,0.75,1.25,1.25],"y":[0.85,1.04,1.08,1.44]}},"id":"6ec3e90a-f447-46b9-a627-aa3384a4c715","type":"ColumnDataSource"},{"attributes":{"below":[{"id":"dfc4ce8b-ee09-48c5-b7f1-9906ab9da1b5","type":"LinearAxis"}],"left":[{"id":"2a2468ba-07be-4677-9afc-eeff464e1607","type":"LinearAxis"}],"plot_height":400,"plot_width":400,"renderers":[{"id":"dfc4ce8b-ee09-48c5-b7f1-9906ab9da1b5","type":"LinearAxis"},{"id":"ab4c9503-8066-4458-a31f-6d842fe3b996","type":"Grid"},{"id":"2a2468ba-07be-4677-9afc-eeff464e1607","type":"LinearAxis"},{"id":"6277dd0d-768c-43db-8699-52ffb7747bc9","type":"Grid"},{"id":"3a81ff9d-6a40-4730-b91e-39a7ecce71fb","type":"BoxAnnotation"},{"id":"0fce864d-81d0-4056-8464-481a7424edff","type":"GlyphRenderer"},{"id":"a87ea631-24e8-4779-b33a-820447a7360a","type":"GlyphRenderer"},{"id":"0b53b412-20fd-46e2-a4f5-11a2172a43cd","type":"GlyphRenderer"},{"id":"a7165d2a-b00a-4993-8995-d3b809afcfdc","type":"GlyphRenderer"}],"title":{"id":"37ce132a-5087-4680-b360-d2ae9ed99b68","type":"Title"},"toolbar":{"id":"bdf06b0c-229b-4c37-90c5-31de34cb34ae","type":"Toolbar"},"x_range":{"id":"9037298e-64ee-4a86-b092-34eed0d2ca81","type":"Range1d"},"x_scale":{"id":"2cd8e201-0aa5-4667-942d-695572f34c43","type":"LinearScale"},"y_range":{"id":"149027be-69a2-4fda-8026-df774d7b6e67","type":"Range1d"},"y_scale":{"id":"c3b8a39f-5ce0-4db8-9dc5-6ad35fe9846f","type":"LinearScale"}},"id":"d9ff9a8d-fe4f-4138-ae7b-86426d08bb76","subtype":"Figure","type":"Plot"},{"attributes":{"fill_color":{"value":"#b2df8a"},"line_color":{"value":"#33a02c"},"line_dash":[2,4,6,4],"line_width":{"value":5},"x":{"field":"x"},"y":{"field":"y"}},"id":"6c5410a0-3aa5-4270-aea4-0842cba5c1f4","type":"Patch"},{"attributes":{"fill_alpha":{"value":0.1},"fill_color":{"value":"#1f77b4"},"line_alpha":{"value":0.1},"line_color":{"value":"#1f77b4"},"line_width":{"value":5},"x":{"field":"x"},"y":{"field":"y"}},"id":"a78a3837-5f10-44b7-9c22-43bc05b9e00d","type":"Patch"},{"attributes":{"bounds":[-1,2],"callback":null,"end":1.5,"start":-0.5},"id":"149027be-69a2-4fda-8026-df774d7b6e67","type":"Range1d"},{"attributes":{},"id":"e5b281da-4fb7-420c-8ef0-d3c4a049a4fa","type":"HelpTool"},{"attributes":{"callback":null,"column_names":["y","x"],"data":{"x":[0,0,0.4,0.34],"y":[1.35,1.04,1.08,1.44]}},"id":"5ad27e6c-841e-4d7c-8939-1b69d841e201","type":"ColumnDataSource"},{"attributes":{},"id":"3f3bd9d7-b638-45f2-ac50-61deb3323735","type":"PanTool"},{"attributes":{"data_source":{"id":"5ad27e6c-841e-4d7c-8939-1b69d841e201","type":"ColumnDataSource"},"glyph":{"id":"f6c29d93-8ab6-43f5-8385-7635cf4ab65c","type":"Patch"},"hover_glyph":null,"muted_glyph":null,"nonselection_glyph":{"id":"7af712b8-29a1-470c-a76b-4fdb0f42e5f2","type":"Patch"},"selection_glyph":null,"view":{"id":"7bc45601-b80d-4b09-bce3-eb89c3ca5b0d","type":"CDSView"}},"id":"a7165d2a-b00a-4993-8995-d3b809afcfdc","type":"GlyphRenderer"},{"attributes":{},"id":"efd5be2c-c645-4534-a491-e050ec36cfa5","type":"WheelZoomTool"},{"attributes":{"bounds":[-1,2],"callback":null,"end":1.5,"start":-0.5},"id":"9037298e-64ee-4a86-b092-34eed0d2ca81","type":"Range1d"},{"attributes":{"source":{"id":"5ad27e6c-841e-4d7c-8939-1b69d841e201","type":"ColumnDataSource"}},"id":"7bc45601-b80d-4b09-bce3-eb89c3ca5b0d","type":"CDSView"},{"attributes":{"callback":null,"column_names":["y","x"],"data":{"x":[0.75,0.75,1.25,1.25],"y":[0,0.5,0.5,0]}},"id":"f5b23d7e-8fbb-467f-b301-7fc6ea789af7","type":"ColumnDataSource"},{"attributes":{"formatter":{"id":"0602b227-1480-42d1-a66e-86a65975c71b","type":"BasicTickFormatter"},"plot":{"id":"d9ff9a8d-fe4f-4138-ae7b-86426d08bb76","subtype":"Figure","type":"Plot"},"ticker":{"id":"49033719-64ef-4713-b508-37aa7b1a441a","type":"BasicTicker"}},"id":"2a2468ba-07be-4677-9afc-eeff464e1607","type":"LinearAxis"},{"attributes":{"active_drag":"auto","active_inspect":"auto","active_scroll":"auto","active_tap":"auto","tools":[{"id":"3f3bd9d7-b638-45f2-ac50-61deb3323735","type":"PanTool"},{"id":"efd5be2c-c645-4534-a491-e050ec36cfa5","type":"WheelZoomTool"},{"id":"f9edfc0b-6c89-4da9-922f-ee248467651e","type":"BoxZoomTool"},{"id":"b2e44021-b923-4e7d-a6bb-28e6ff9cbe1a","type":"SaveTool"},{"id":"b8d39ee3-12c1-419c-83b3-d47daef8af59","type":"ResetTool"},{"id":"e5b281da-4fb7-420c-8ef0-d3c4a049a4fa","type":"HelpTool"}]},"id":"bdf06b0c-229b-4c37-90c5-31de34cb34ae","type":"Toolbar"},{"attributes":{"bottom_units":"screen","fill_alpha":{"value":0.5},"fill_color":{"value":"lightgrey"},"left_units":"screen","level":"overlay","line_alpha":{"value":1.0},"line_color":{"value":"black"},"line_dash":[4,4],"line_width":{"value":2},"plot":null,"render_mode":"css","right_units":"screen","top_units":"screen"},"id":"3a81ff9d-6a40-4730-b91e-39a7ecce71fb","type":"BoxAnnotation"},{"attributes":{"fill_alpha":{"value":0.1},"fill_color":{"value":"#1f77b4"},"line_alpha":{"value":0.1},"line_color":{"value":"#1f77b4"},"line_dash":[2,4,6,4],"line_width":{"value":5},"x":{"field":"x"},"y":{"field":"y"}},"id":"51c5f0de-45fa-4b4d-a3fa-b704635a34c1","type":"Patch"},{"attributes":{},"id":"b8d39ee3-12c1-419c-83b3-d47daef8af59","type":"ResetTool"},{"attributes":{"source":{"id":"6ec3e90a-f447-46b9-a627-aa3384a4c715","type":"ColumnDataSource"}},"id":"1a965ad6-6dcb-4955-8770-4909d5cb0684","type":"CDSView"}],"root_ids":["d9ff9a8d-fe4f-4138-ae7b-86426d08bb76"]},"title":"Bokeh Application","version":"0.12.7"}};
+              var render_items = [{"docid":"2e50db99-064f-498f-8656-4779b8f4eb30","elementid":"acb2f535-c34e-4d77-b010-fb8c0f81516b","modelid":"d9ff9a8d-fe4f-4138-ae7b-86426d08bb76"}];
+              
+              Bokeh.embed.embed_items(docs_json, render_items);
+            });
+          };
+          if (document.readyState != "loading") fn();
+          else document.addEventListener("DOMContentLoaded", fn);
+        })();
+        
+        </script>
+    </body>
+</html>

diff --git a/format_template.py b/format_template.py
@@ -6,7 +6,7 @@ base_image_filename  = '../visualizations/'
 key_base = "bokeh_glyphs_{}"
 glyph_names = ['annular_wedge', 'annulus','arc','asterisk','circle',
 'circle_cross','circle_x','cross','diamond','diamond_cross','ellipse',
-'hbar','image','image_rgba', 'image_url', 'line', 'oval','square',
+'hbar','image','image_rgba', 'image_url', 'line', 'oval','patch', 'square',
 'triangle','vbar']
 
 glyph_format_dict = dict(glyph_base_code_filename=base_filename+'bokeh/glyphs/',

diff --git a/visualizations/bokeh/glyphs/patch/patch.md b/visualizations/bokeh/glyphs/patch/patch.md
@@ -1,0 +1,27 @@
+
+# Bokeh Patch Glyph
+
+
+```python
+from bokeh.plotting import figure, output_file, show
+from bokeh.models import Range1d
+from bokeh.io import export_png
+
+fill_colors = ['#e31a1c','#b2df8a','#a6cee3','#cab2d6']
+line_colors = ['#e31a1c','#33a02c','#1f78b4','#6a3d9a']
+output_file("../../figures/patch.html")
+
+p = figure(plot_width=400, plot_height=400)
+p.patch(x=[0, 0.5, 0, 0.5],y=[0, 0.5, 0.5,  0], fill_alpha=1,fill_color=fill_colors[0],
+         line_alpha=1, line_color=line_colors[0], line_dash='solid', line_width=5)
+p.patch(x=[0.75 + i for i in [0, 0, 0.5, 0.5]],y=[0, 0.5, 0.5,  0], fill_alpha=1,fill_color=fill_colors[1],
+         line_alpha=1, line_color=line_colors[1], line_dash='dotdash', line_width=5)
+p.patch(x=[0.75 + i for i in [0, 0, 0.5, 0.5]],y=[0.75 + i for i in [0.1, 0.29, 0.33,  .69]], fill_alpha=1,fill_color=fill_colors[2],
+         line_alpha=1, line_color=line_colors[2], line_dash='dashed', line_width=5)
+p.patch(x=[0, 0, 0.4, 0.34],y=[0.75 + i for i in [0.6, 0.29, 0.33,  .69]], fill_alpha=1,fill_color=fill_colors[3],
+         line_alpha=1, line_color=line_colors[3], line_dash='dotted', line_width=5)
+p.x_range = Range1d(-0.5,1.5, bounds=(-1,2))
+p.y_range = Range1d(-0.5,1.5, bounds=(-1,2))
+show(p)
+export_png(p, filename="../../figures/patch.png");
+```

diff --git a/gallery.md b/gallery.md
@@ -32,6 +32,7 @@ Below is a collection of data visualizations. Each final image below links to th
 &nbsp;&nbsp;&nbsp;&nbsp;&nbsp;&nbsp;&nbsp;&nbsp; - [Image URL](#bokeh-glyphs-image_url)  
 &nbsp;&nbsp;&nbsp;&nbsp;&nbsp;&nbsp;&nbsp;&nbsp; - [Line](#bokeh-glyphs-line) 
 &nbsp;&nbsp;&nbsp;&nbsp;&nbsp;&nbsp;&nbsp;&nbsp; - [Oval](#bokeh-glyphs-oval) 
+&nbsp;&nbsp;&nbsp;&nbsp;&nbsp;&nbsp;&nbsp;&nbsp; - [Patch](#bokeh-glyphs-patch)
 &nbsp;&nbsp;&nbsp;&nbsp;&nbsp;&nbsp;&nbsp;&nbsp; - [Square](#bokeh-glyphs-square)  
 &nbsp;&nbsp;&nbsp;&nbsp;&nbsp;&nbsp;&nbsp;&nbsp; - [Triangle](#bokeh-glyphs-triangle)  
 &nbsp;&nbsp;&nbsp;&nbsp;&nbsp;&nbsp;&nbsp;&nbsp; - [Vbar](#bokeh-glyphs-vbar) 
@@ -169,6 +170,12 @@ Glyphs are the fundamental building block of plots in `Bokeh`.
 <a name="bokeh-glyphs-oval"></a>
 #### Oval ([Interactive](http://alanpryorjr.com/visualizations/bokeh/figures/oval)) [(code)](http://alanpryorjr.com/visualizations/bokeh/glyphs/oval/oval)
 ![Oval](../visualizations/bokeh/figures/oval.png)
+
+
+
+<a name="bokeh-glyphs-patch"></a>
+#### Patch ([Interactive](http://alanpryorjr.com/visualizations/bokeh/figures/patch)) [(code)](http://alanpryorjr.com/visualizations/bokeh/glyphs/patch/patch)
+![Patch](../visualizations/bokeh/figures/patch.png)
 
 
 

diff --git a/gallery-template.md b/gallery-template.md
@@ -32,6 +32,7 @@ Below is a collection of data visualizations. Each final image below links to th
 &nbsp;&nbsp;&nbsp;&nbsp;&nbsp;&nbsp;&nbsp;&nbsp; - [Image URL](#bokeh-glyphs-image_url)  
 &nbsp;&nbsp;&nbsp;&nbsp;&nbsp;&nbsp;&nbsp;&nbsp; - [Line](#bokeh-glyphs-line) 
 &nbsp;&nbsp;&nbsp;&nbsp;&nbsp;&nbsp;&nbsp;&nbsp; - [Oval](#bokeh-glyphs-oval) 
+&nbsp;&nbsp;&nbsp;&nbsp;&nbsp;&nbsp;&nbsp;&nbsp; - [Patch](#bokeh-glyphs-patch)
 &nbsp;&nbsp;&nbsp;&nbsp;&nbsp;&nbsp;&nbsp;&nbsp; - [Square](#bokeh-glyphs-square)  
 &nbsp;&nbsp;&nbsp;&nbsp;&nbsp;&nbsp;&nbsp;&nbsp; - [Triangle](#bokeh-glyphs-triangle)  
 &nbsp;&nbsp;&nbsp;&nbsp;&nbsp;&nbsp;&nbsp;&nbsp; - [Vbar](#bokeh-glyphs-vbar) 
@@ -102,6 +103,8 @@ Glyphs are the fundamental building block of plots in `Bokeh`.
 {bokeh_glyphs_line}
 
 {bokeh_glyphs_oval}
+
+{bokeh_glyphs_patch}
 
 {bokeh_glyphs_square}
 
